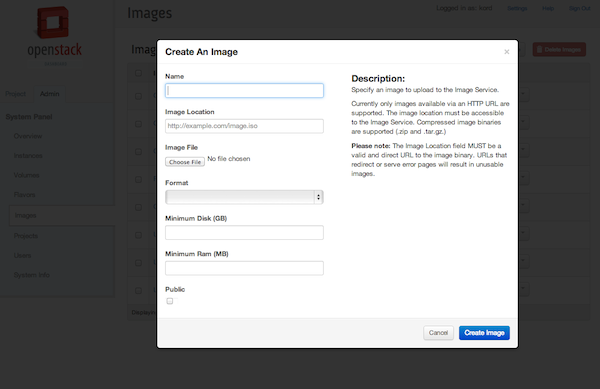
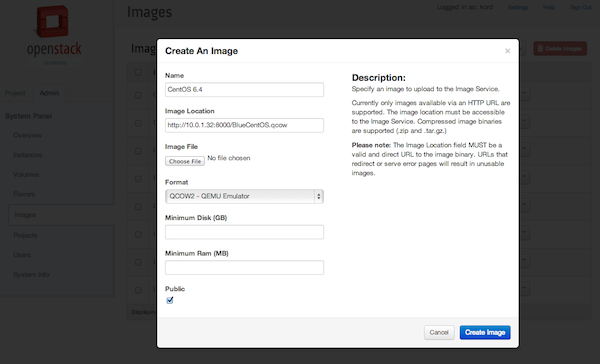
images

diff --git a/centos/README.md b/centos/README.md
@@ -136,5 +136,22 @@ Now run the *build_cloud.sh* script:
     ./build_cloud.sh
 
 ### Upload the Image to OpenStack
-You will need to upload the disk image to your OpenStack cluster.
-Uploading the image to an OpenStack cluster should be done with a user that has admin privledges.  Login to OpenStack and then click on the 'Admin' tab in the left pane, then     
+You will need to upload the disk image to your OpenStack cluster.  Start a simple web server by entering the following:
+
+    cd ~/VirtualBox\ VMs/BlueCentOS/
+    ./serve
+
+Select the line with the *BlueCentOS.qcow* file in the URL and copy it into your paste buffer.  
+
+To upload the image to OpenStack, do the following:
+
+ * login to your OpenStack cluster with a user with admin privileges
+ * click on the 'Admin' tab in the left pane
+ * click on the 'Images' link on the left under 'System Panel'
+ * click on the 'Create Image' button at the top right
+
+Here's a screenshot of the modal that should pop up:
+
+![ScreenShot](https://raw.github.com/bluechiptek/openstackguides/master/centos/upload.png)
+
+Enter CentOs Paste in the URL you copied earlier.
